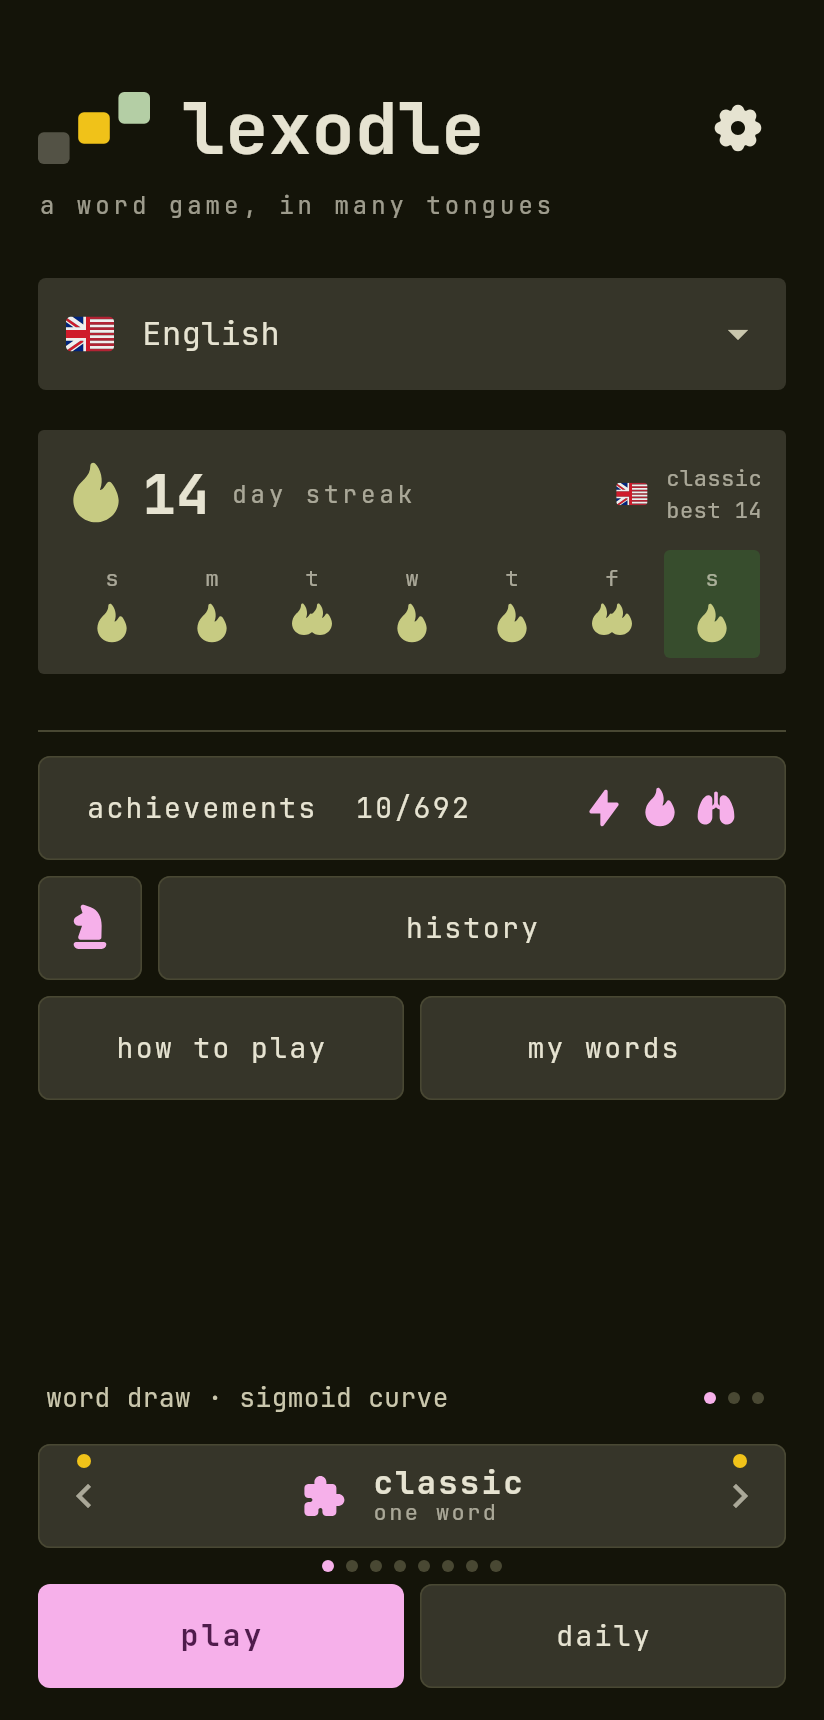
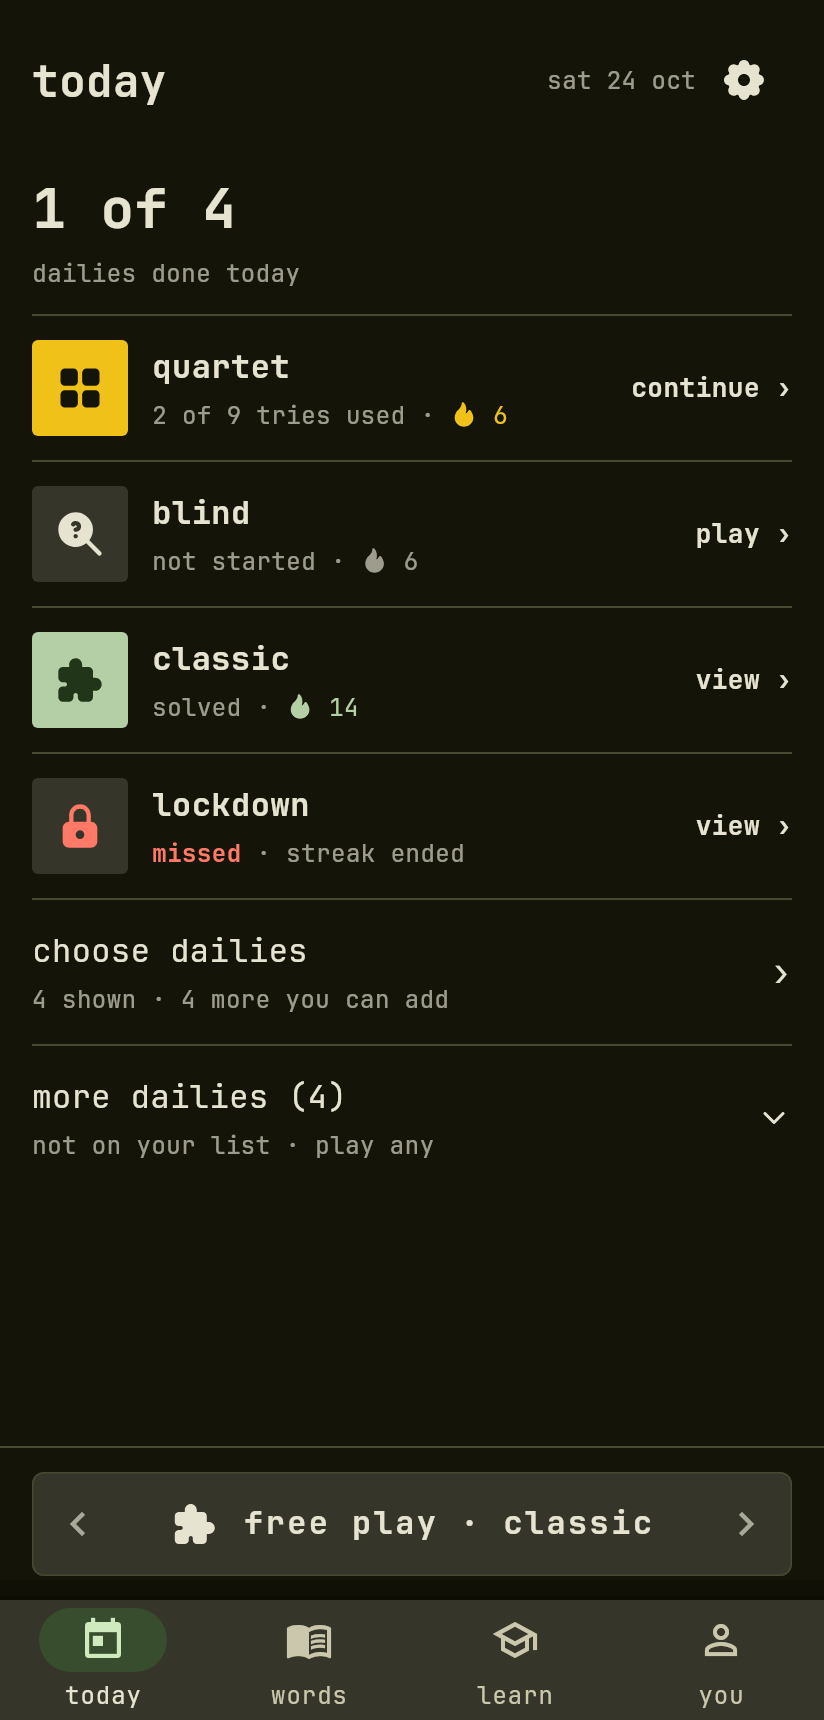
wip: screenshots and wiki for 0.11.0 (in progress)
Claude-Session: https://claude.ai/code/session_01H8CD8xPdiSHfaNCTZdRhiK

diff --git a/app/test/screenshots_test.dart b/app/test/screenshots_test.dart
@@ -365,6 +365,8 @@ void main() {
 
   /// The shell, on the tab [tab] (today when null).
   Future<GlobalKey> shell(WidgetTester t, [String? tab]) async {
+    // the tests' config starts on the old home page; the app is always the shell
+    appState.newUi = true;
     final key = GlobalKey();
     await t.pumpWidget(RepaintBoundary(key: key, child: const LexodleApp()));
     await t.pumpAndSettle();
